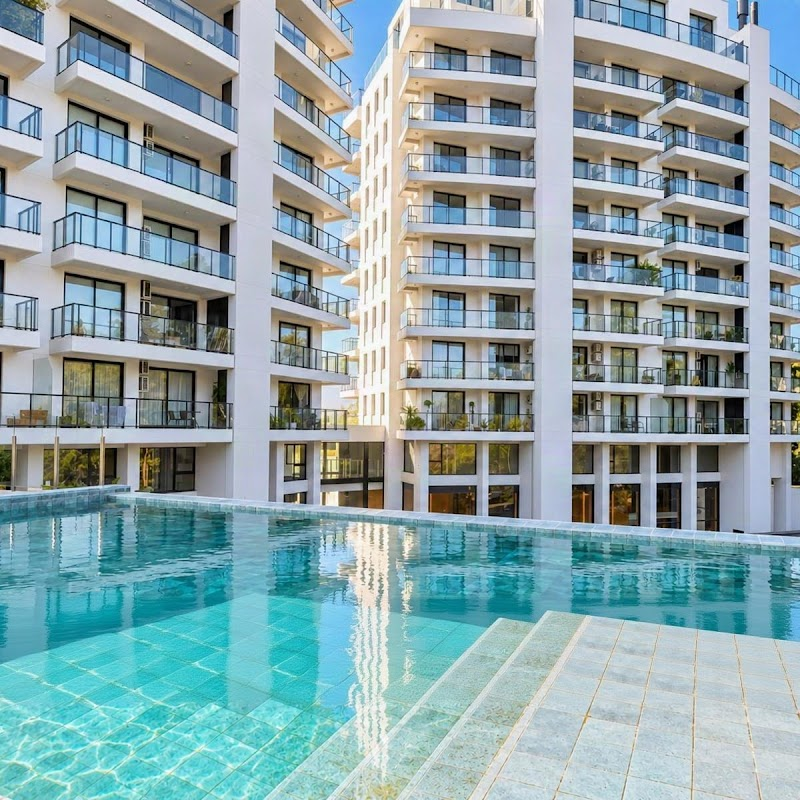
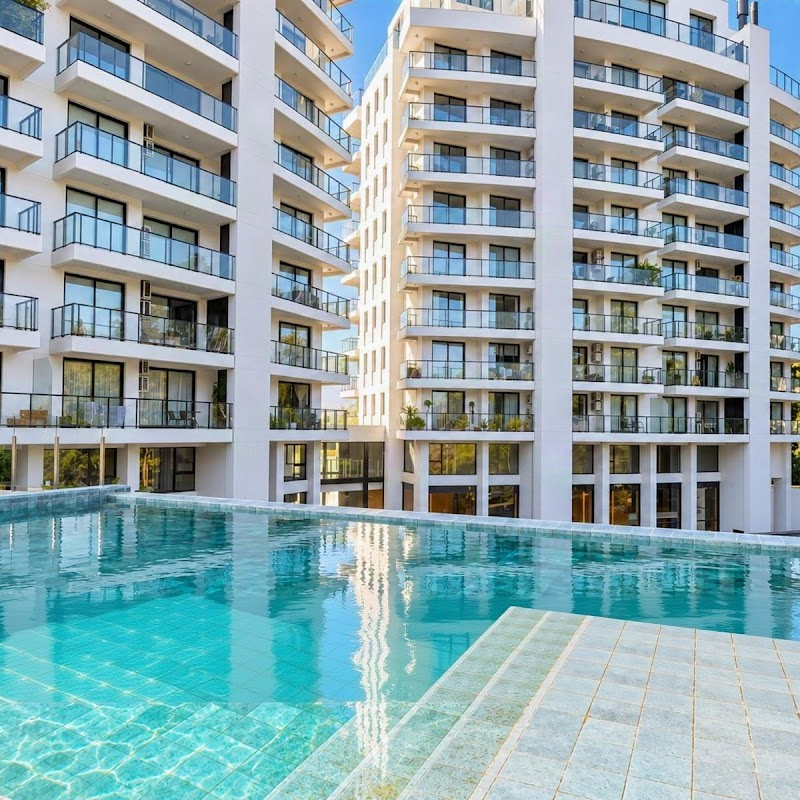
Ficha d7f5a1: Departamento en venta en Vista Golf, Canning

Changed region(s): [[0.0, 0.7188, 0.6875, 0.875], [0.7188, 0.75, 0.9375, 0.8125], [0.9688, 0.75, 1.0, 0.8125]]

diff --git a/d7f5a1/index.html b/d7f5a1/index.html
@@ -93,7 +93,7 @@
   </div>
 
 <script>
-const D = {"ficha":{"slug":"departamento-venta-vista-golf-d7f5a1","titulo":"Departamento en venta en Vista Golf, Canning","tipo":"Departamento","operacion":"Venta","precio":{"moneda":"USD","monto":240000},"expensas":null,"ubicacion":{"barrio":"Vista Golf","zona":"Canning, Ezeiza","lat":-34.888,"lng":-58.506},"descripcion":"DEPARTAMENTO DE 3 AMBIENTES VISTA GOLF, TORRE DE CATEGORÍA – CANNING\n\n112 m² totales | 2 dormitorios | 2 baños | Balcones aterrazados | Amenities premium\n\nExcelente departamento de 3 ambientes, ubicado en un exclusivo complejo de torres de categoría en Canning, frente al golf y con accesos desde Av. Castex y calle Martín García.\n\nLa propiedad se destaca por sus ambientes amplios y luminosos, su distribución funcional, sus terminaciones de calidad y sus balcones aterrazados, ideales para disfrutar del exterior.\n\nUna propuesta que combina confort, diseño y una ubicación privilegiada, dentro de un complejo con servicios y amenities de primer nivel.\n\nCARACTERÍSTICAS DE LA UNIDAD\n\n- Superficie total: 112 m².\n- 3 ambientes.\n- Amplio living comedor de 6,35 x 3,40 m.\n- Cocina integrada de 2,96 x 2,10 m.\n- 2 dormitorios (uno principal en suite con vestidor de 3,10 x 3,10 m.)\n- Segundo dormitorio de 3,10 x 3,00 m.\n- 2 baños completos.\n- Lavadero.\n- Balcón de 1,64 x 7,17 m.\n- Segundo balcón de 6,83 x 1,50 m.\n- Vista abierta.\n- Orientación noroeste.\n- Disposición lateral.\n- Baulera.\n- Cochera opcional.\n\nDETALLES DE CONSTRUCCIÓN Y CONFORT\n\n- Calefacción por losa radiante.\n- Agua caliente individual.\n- Pisos de madera flotante.\n- Aberturas con doble vidriado hermético.\n- Frentes corredizos de placard.\n- Balcones aterrazados con parrilla individual.\n\nCARACTERÍSTICAS DEL COMPLEJO\n\nExclusivo desarrollo residencial compuesto por dos torres de 10 pisos, con unidades de 2, 3 y 4 ambientes, cocheras en bajo nivel y vigilancia las 24 horas.\n\nEl complejo cuenta con una completa propuesta de amenities y espacios comunes diseñados para disfrutar de una experiencia residencial de primer nivel.\n\nAMENITIES Y SERVICIOS\n\n- Piscina cubierta climatizada.\n- Piscina exterior con solárium.\n- Gimnasio equipado.\n- Sauna y vestuarios.\n- Sala de masajes y relax.\n- 2 salones de usos múltiples (SUM).\n- Sector de parrillas.\n- Laundry central.\n- Sala de reuniones.\n- Áreas de esparcimiento.\n- Sector de juegos infantiles.\n- Seguridad y vigilancia las 24 horas.\n- Portero visor.\n- Ascensores.\n- Cocheras opcionales.\n\nUBICACIÓN\n\nUbicado en una de las zonas residenciales más buscadas de Canning, frente al golf, con accesos desde Av. Castex y calle Martín García.\n\nSu entorno combina tranquilidad, espacios verdes y cercanía a los principales servicios de la zona.\n\nUna excelente oportunidad para quienes buscan vivir con confort, seguridad y amenities de categoría, en una ubicación privilegiada de Canning.\n\nVALOR DE VENTA: USD 240.000.","detalles":[["Sup. Total","112 m²"],["Sup. Cubierta","90 m²"],["Tipo","Departamento"],["Ambientes","3"],["Dormitorios","2"],["Baños","2"],["Plantas","1"]],"servicios":["Calefacción por losa radiante","Agua caliente individual"],"comodidades":["Balcones aterrazados","Baulera","Parrilla individual","Piscina cubierta climatizada","Piscina exterior con solárium","Gimnasio equipado","Sauna","Vestuarios","Sala de masajes y relax","Salón de usos múltiples (SUM)","Sector de parrillas","Laundry central","Sala de reuniones","Áreas de esparcimiento","Sector de juegos infantiles","Seguridad 24 hs","Portero visor","Ascensores"],"fotos":[{"id":"1NIDFTSwal5CW2GtRxB01kqX9oS2SBvDV"},{"id":"1BakypHx-1lRzCNld5BzQhtiFWLJ1zpUi"},{"id":"1J_e4q6q0RorS_ncTLxJ27HtxmVDy6iuu"},{"id":"1v3FR0Cm9JNmr1in4JPwMoFbHRMavfAVs"},{"id":"1qP-NY1ZqPSHlqgKtI7n5Ihc6V1E27MWd"},{"id":"1bTWQichqNfziqeBiHpO8ubgsnfV8ZYua"},{"id":"1oGXGw7tFTFSn0UJtxiwR-DbRib3J6dIC"},{"id":"1bHzAv4A5pSzqEyp9jdSZhu2YfKhP62f2"},{"id":"1oX-wFjgZv0Fti-pJnpLYdn_EjKnjlZfj"},{"id":"1-k5RF3A8RMat3c5WXh8JqGnYKbKvx5C_"}],"planos":[],"actualizado":"2026-10-27T17:36:40.447Z"},"avisoLegal":"Toda la información suministrada en forma de imágenes y/o escrita carece de valor contractual y deberá ser corroborada por el interesado."};
+const D = {"ficha":{"slug":"departamento-venta-vista-golf-d7f5a1","titulo":"Departamento en venta en Vista Golf, Canning","tipo":"Departamento","operacion":"Venta","precio":{"moneda":"USD","monto":240000},"expensas":null,"ubicacion":{"barrio":"Vista Golf","zona":"Canning, Ezeiza","lat":-34.888,"lng":-58.506},"descripcion":"DEPARTAMENTO DE 3 AMBIENTES VISTA GOLF, TORRE DE CATEGORÍA – CANNING\n\n112 m² totales | 2 dormitorios | 2 baños | Balcones aterrazados | Amenities premium\n\n\nUna propuesta que combina confort, diseño y una ubicación privilegiada, dentro de un complejo con servicios y amenities de primer nivel.\n\nCARACTERÍSTICAS DE LA UNIDAD\n\n- Superficie total: 112 m².\n- 3 ambientes.\n- Amplio living comedor de 6,35 x 3,40 m.\n- Cocina integrada de 2,96 x 2,10 m.\n- 2 dormitorios (uno principal en suite con vestidor de 3,10 x 3,10 m.)\n- Segundo dormitorio de 3,10 x 3,00 m.\n- 2 baños completos.\n- Lavadero.\n- Balcón de 1,64 x 7,17 m.\n- Segundo balcón de 6,83 x 1,50 m.\n- Vista abierta.\n- Orientación noroeste.\n- Disposición lateral.\n- Baulera.\n- Cochera opcional.\n\nDETALLES DE CONSTRUCCIÓN Y CONFORT\n\n- Calefacción por piso radiante.\n- Agua caliente individual.\n- Pisos de madera flotante.\n- Aberturas con doble vidriado hermético.\n- Frentes corredizos de placard.\n- Balcones aterrazados con parrilla individual.\n\nCARACTERÍSTICAS DEL COMPLEJO\n\nExclusivo desarrollo residencial compuesto por dos torres de 10 pisos, con unidades de 2, 3 y 4 ambientes, cocheras y vigilancia las 24 horas.\n\nEl complejo cuenta con una completa propuesta de amenities y espacios comunes diseñados para disfrutar de una experiencia residencial de primer nivel.\n\nAMENITIES Y SERVICIOS\n\n- Piscina cubierta climatizada.\n- Piscina exterior con solárium.\n- Gimnasio equipado.\n- Sauna y vestuarios.\n- Sala de masajes y relax.\n- 2 salones de usos múltiples (SUM).\n- Sector de parrillas.\n- Laundry central.\n- Sala de reuniones.\n- Áreas de esparcimiento.\n- Sector de juegos infantiles.\n- Seguridad y vigilancia las 24 horas.\n- Portero visor.\n- Ascensores.\n- Cocheras opcionales.\n\nUBICACIÓN\n\nUbicado en una de las zonas residenciales más buscadas de Canning, frente al golf, con accesos desde Av. Castex y calle Martín García.\n\nSu entorno combina tranquilidad, espacios verdes y cercanía a los principales servicios de la zona.\n\nUna excelente oportunidad para quienes buscan vivir con confort, seguridad y amenities de categoría, en una ubicación privilegiada de Canning.","detalles":[["Sup. Total","112 m²"],["Sup. Cubierta","90 m²"],["Tipo","Departamento"],["Ambientes","3"],["Dormitorios","2"],["Baños","2"],["Plantas","1"]],"servicios":["Calefacción por losa radiante","Agua caliente individual"],"comodidades":["Balcones aterrazados","Baulera","Parrilla individual","Piscina cubierta climatizada","Piscina exterior con solárium","Gimnasio equipado","Sauna","Vestuarios","Sala de masajes y relax","Salón de usos múltiples (SUM)","Sector de parrillas","Laundry central","Sala de reuniones","Áreas de esparcimiento","Sector de juegos infantiles","Seguridad 24 hs","Portero visor","Ascensores"],"fotos":[{"id":"1z_VBrLX8kGJhRlCXcwKrPx8XOxgMg8FS"},{"id":"1OGPVvEgRVQaRP-DiziLhgzAr3sO8wPt-"},{"id":"15XtNsrRpRZHBBry4h6UccMtSdF9HzQir"},{"id":"1feqm5Hu5zCHRiUFxxN2TdNDncW77xJm7"},{"id":"1V00DJ1xVBBVb3609LRJMOkp1rsGfXQ3C"},{"id":"1TLXEXclzaGG9btfAn-ObdP3mVDyX1A_T"},{"id":"1OFEDBfp__1Ttg9vITqz7AcLbdmVN0uxY"},{"id":"19PbJKKE7OjXa-q7t9GKF2ybUR0YPEC_S"},{"id":"15jqiQ2y6F-1bijcwPENV9UKzBiWjJ8LV"},{"id":"1rRg7xQTF1QYq8YzbjB_wPvT0qbSalVKX"}],"planos":[],"actualizado":"2026-10-27T17:42:39.680Z"},"avisoLegal":"Toda la información suministrada en forma de imágenes y/o escrita carece de valor contractual y deberá ser corroborada por el interesado."};
 const F = D.ficha;
 const esc = s => String(s == null ? '' : s).replace(/[&<>"']/g, c => ({ '&': '&amp;', '<': '&lt;', '>': '&gt;', '"': '&quot;', "'": '&#39;' }[c]));
 const miles = n => String(Math.round(n)).replace(/\B(?=(\d{3})+(?!\d))/g, '.');
